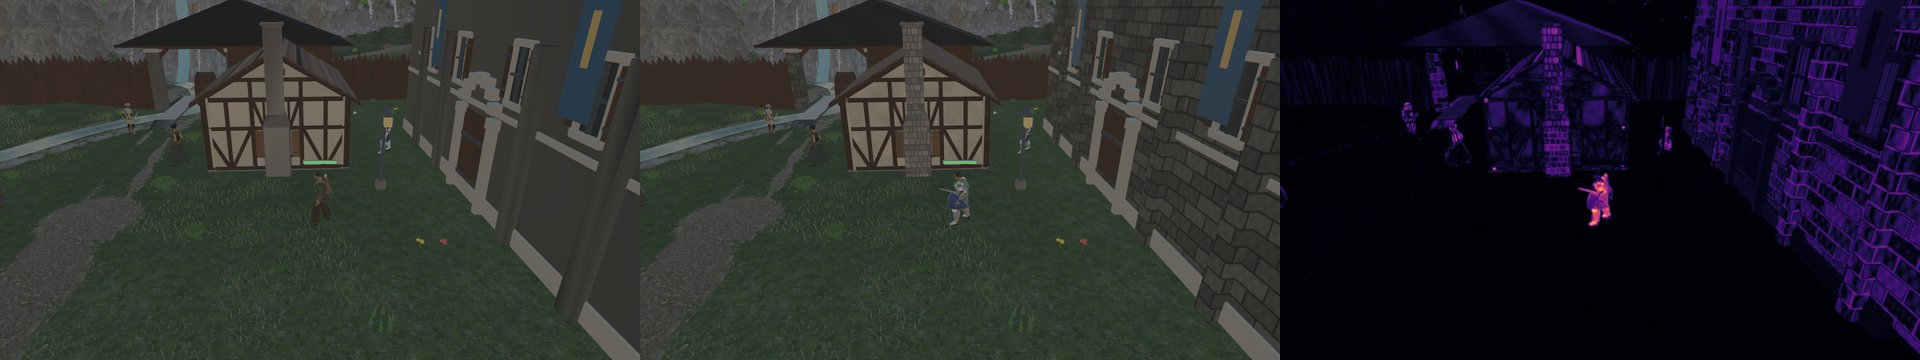
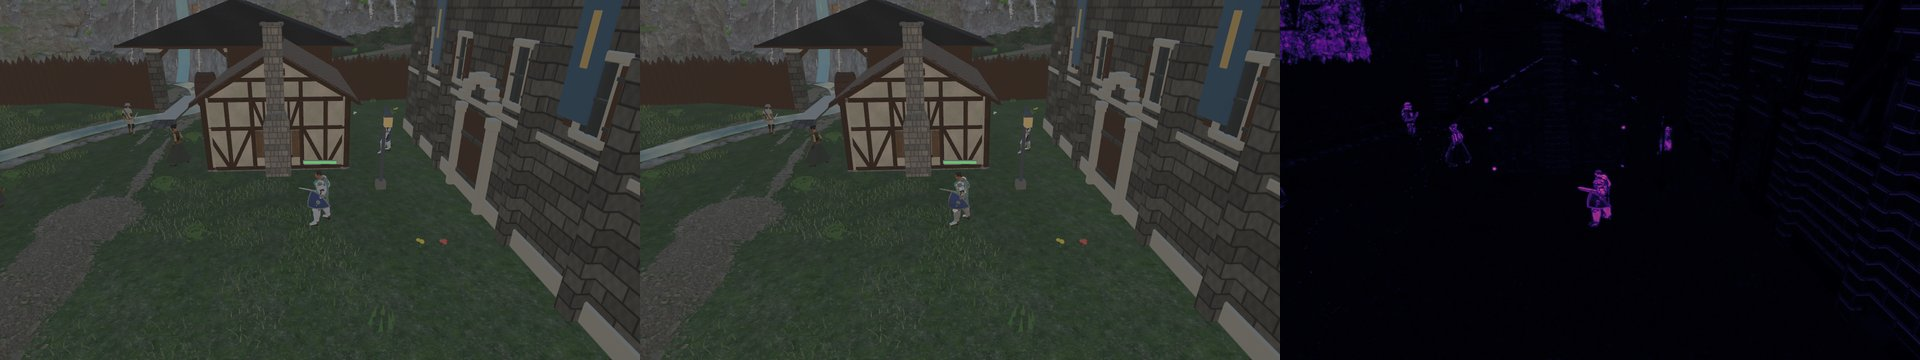
Greyhaven reference: recapture both clients and record FLIP (#753)

Changed region(s): [[0.6562, 0.0, 1.0, 0.9778], [0.1562, 0.4889, 0.1875, 0.6111]]

diff --git a/docs/reviews/greyhaven-reference/README.md b/docs/reviews/greyhaven-reference/README.md
@@ -2,12 +2,30 @@
 
 The approved visual reference for Greyhaven (owner decision 2026-11-11 on
 [render-engine#74](https://github.com/moritzbrantner/render-engine/issues/74)): native captures
-from `greyhaven_lighting_shots`, 1280×720, render-engine `df5597b5`. The four `frame-*` shots are
-from mmorpg `05a1e3eb`. The shots at a set hour (`noon`, `dusk`, `night`, `torch-*`) were
-captured again at `eb58c43b` with the fog of their own hour (#757): before, they kept the fog
-colour of the zone's 08:00, which the renderer adds unexposed, so the night shots were lifted
-by a daytime grey-blue that neither client shows in play
-([render-engine#102](https://github.com/moritzbrantner/render-engine/issues/102)).
+from `greyhaven_lighting_shots`, 1280×720, render-engine `3d0acc68`. All nine shots were captured
+again for #753 (on mmorpg `620a7b55` with #753's changes), so that the native and browser shots
+differ only in rendering:
+
+- **Motion:** both capture with reduced motion. The campfire and cave-torch flames hold a steady
+  brightness instead of flickering at whatever moment each client sampled, the reeds and idle
+  poses hold still, and levels of detail switch at once instead of cross-fading. Neither client
+  sways its trees in the wind, so there is no wind time to fix.
+- **Content:** both show the browser's default character, a male Warden (the native shots
+  showed a female Ranger). The browser holds its local zone once entered (`holdWorld`), so the
+  units stand where they were at entry, as in the native shots.
+- **Outpost material:** the native client baked the Outpost kit's and the fort's textures into
+  vertex colours, so the stone hall and the chimneys read flat grey. It now draws them with
+  their textures and normal maps, as the browser does (client asset loading; the asset-tooling
+  output was fine).
+- **Anti-aliasing:** already the same. Both draw the main HDR pass with 4× MSAA (render-engine
+  `SAMPLE_COUNT`, three-lighting's `samples: 4`) and alpha-masked leaves by an alpha-test
+  `discard` at the material's cutoff (0.5 by default); neither uses alpha-to-coverage.
+- **Levels of detail:** already the same. Both pick levels through the shared
+  `mmorpg_presentation::lod::Lods` with the same descriptors, bias 1 and the camera's vertical
+  field of view. A browser capture of `frame-lake` alone measured exactly as the one after all
+  other shots, so the selection's hysteresis does not depend on the shot order either.
+
+Files:
 
 - `re9-<shot>.png`: the native reference, lossless. The Outpost at noon, dusk and night, a
   campfire and the lantern post by night (`noon`, `dusk`, `night`, `torch-campfire`,
@@ -18,38 +36,40 @@ by a daytime grey-blue that neither client shows in play
   FLIP heat map, left to right.
 
 The browser is compared against the native reference with FLIP per shot. The numbers are
-recorded, not a gate. Browser at the same revision: three.js 0.186.1 with
-`@moritzbrantner/three-lighting`, Chromium 158.0.8127.18 headless (Playwright 1.65.0), ANGLE on
-OpenGL ES 3.2, RTX 3060 Ti, pixel ratio 1.
+recorded, not a gate. Browser: three.js 0.186.1 with `@moritzbrantner/three-lighting`, Chrome
+157.0.8103.38 (Playwright `--channel chrome` under `xvfb-run`), ANGLE on OpenGL ES 3.2, RTX 3060
+Ti, pixel ratio 1. Before is `620a7b55` without #753's changes on the same machine.
 
-| Shot | Hour | FLIP mean | FLIP p99 | Before #757 (mean / p99) |
+| Shot | Hour | FLIP mean | FLIP p99 | Before #753 (mean / p99) |
 | --- | --- | --- | --- | --- |
-| `noon` | 12.0 | 0.0593 | 0.3211 | 0.0594 / 0.3211 |
-| `dusk` | 17.8 | 0.0482 | 0.2629 | 0.0663 / 0.2657 |
-| `night` | 23.5 | 0.0355 | 0.1994 | 0.0984 / 0.2373 |
-| `torch-campfire` | 22.0 | 0.0206 | 0.0905 | 0.0771 / 0.2399 |
-| `torch-lantern` | 22.0 | 0.0763 | 0.2024 | 0.0955 / 0.2755 |
-| `frame-hub` | 8.0 | 0.0601 | 0.3496 | |
-| `frame-woods` | 8.0 | 0.0537 | 0.5587 | |
-| `frame-vale` | 8.0 | 0.0295 | 0.2084 | |
-| `frame-lake` | 8.0 | 0.0697 | 0.6465 | |
+| `noon` | 12.0 | 0.0402 | 0.3054 | 0.0634 / 0.3428 |
+| `dusk` | 17.8 | 0.0184 | 0.1908 | 0.0514 / 0.2688 |
+| `night` | 23.5 | 0.0177 | 0.1465 | 0.0381 / 0.2101 |
+| `torch-campfire` | 22.0 | 0.0131 | 0.1062 | 0.0567 / 0.2636 |
+| `torch-lantern` | 22.0 | 0.0137 | 0.0422 | 0.0731 / 0.1489 |
+| `frame-hub` | 8.0 | 0.0429 | 0.3298 | 0.0643 / 0.3852 |
+| `frame-woods` | 8.0 | 0.0618 | 0.6759 | 0.0618 / 0.6758 |
+| `frame-vale` | 8.0 | 0.0315 | 0.2668 | 0.0352 / 0.2793 |
+| `frame-lake` | 8.0 | 0.0697 | 0.6463 | 0.0697 / 0.6465 |
 
-The campfire and the cave torches flicker, and the two clients capture them at different
-moments, so the torch shots vary between browser captures: over five captures, `torch-campfire`
-0.021 to 0.036 and `torch-lantern` 0.037 to 0.076 (before #757: 0.068 to 0.078 and 0.071 to
-0.109). With the flicker held steady on both sides (reduced motion) they measure 0.0134 and
-0.0137, and their mean luminance matches within 0.2 %: the point lights themselves agree.
+Two browser captures in a row measured the same to four places for every shot here. What
+remains is rendering, and these known differences:
 
-Reproduce (the `frame-*` shots at `05a1e3eb` with this directory's test and script changes
-applied, the others at `eb58c43b` with #757's):
+- The Outpost modules' wear: the browser ages each building from the kit's wear masks
+  (darker, mossy stone, missing roof units); the native client draws the pristine modules.
+- The woods (`frame-woods`, `frame-lake`): the error stays on the leaf cards' and trunks'
+  edges and their shadows, with the levels picked by the same shared selection; it is the
+  shading and shadowing of the foliage, not its content.
+
+Reproduce:
 
 ```sh
 bash scripts/fetch-bundles.sh && bash scripts/prepare-ranger-native.sh
 MMORPG_LIGHTING_SHOTS="$PWD/artifacts/lighting" cargo test --release --locked -p mmorpg-client \
   --lib greyhaven_lighting_shots -- --ignored --nocapture
 (cd web && bun install --frozen-lockfile && bun run build)
-python scripts/capture-browser-reference.py docs/reviews/greyhaven-reference/views.json \
-  --out artifacts/greyhaven-reference
+xvfb-run -a python scripts/capture-browser-reference.py docs/reviews/greyhaven-reference/views.json \
+  --out artifacts/greyhaven-reference --channel chrome
 # in a render-engine checkout, per shot:
 cargo run --release --locked --manifest-path oracle/Cargo.toml -- --flip-images \
   <mmorpg>/docs/reviews/greyhaven-reference/re9-noon.png \
